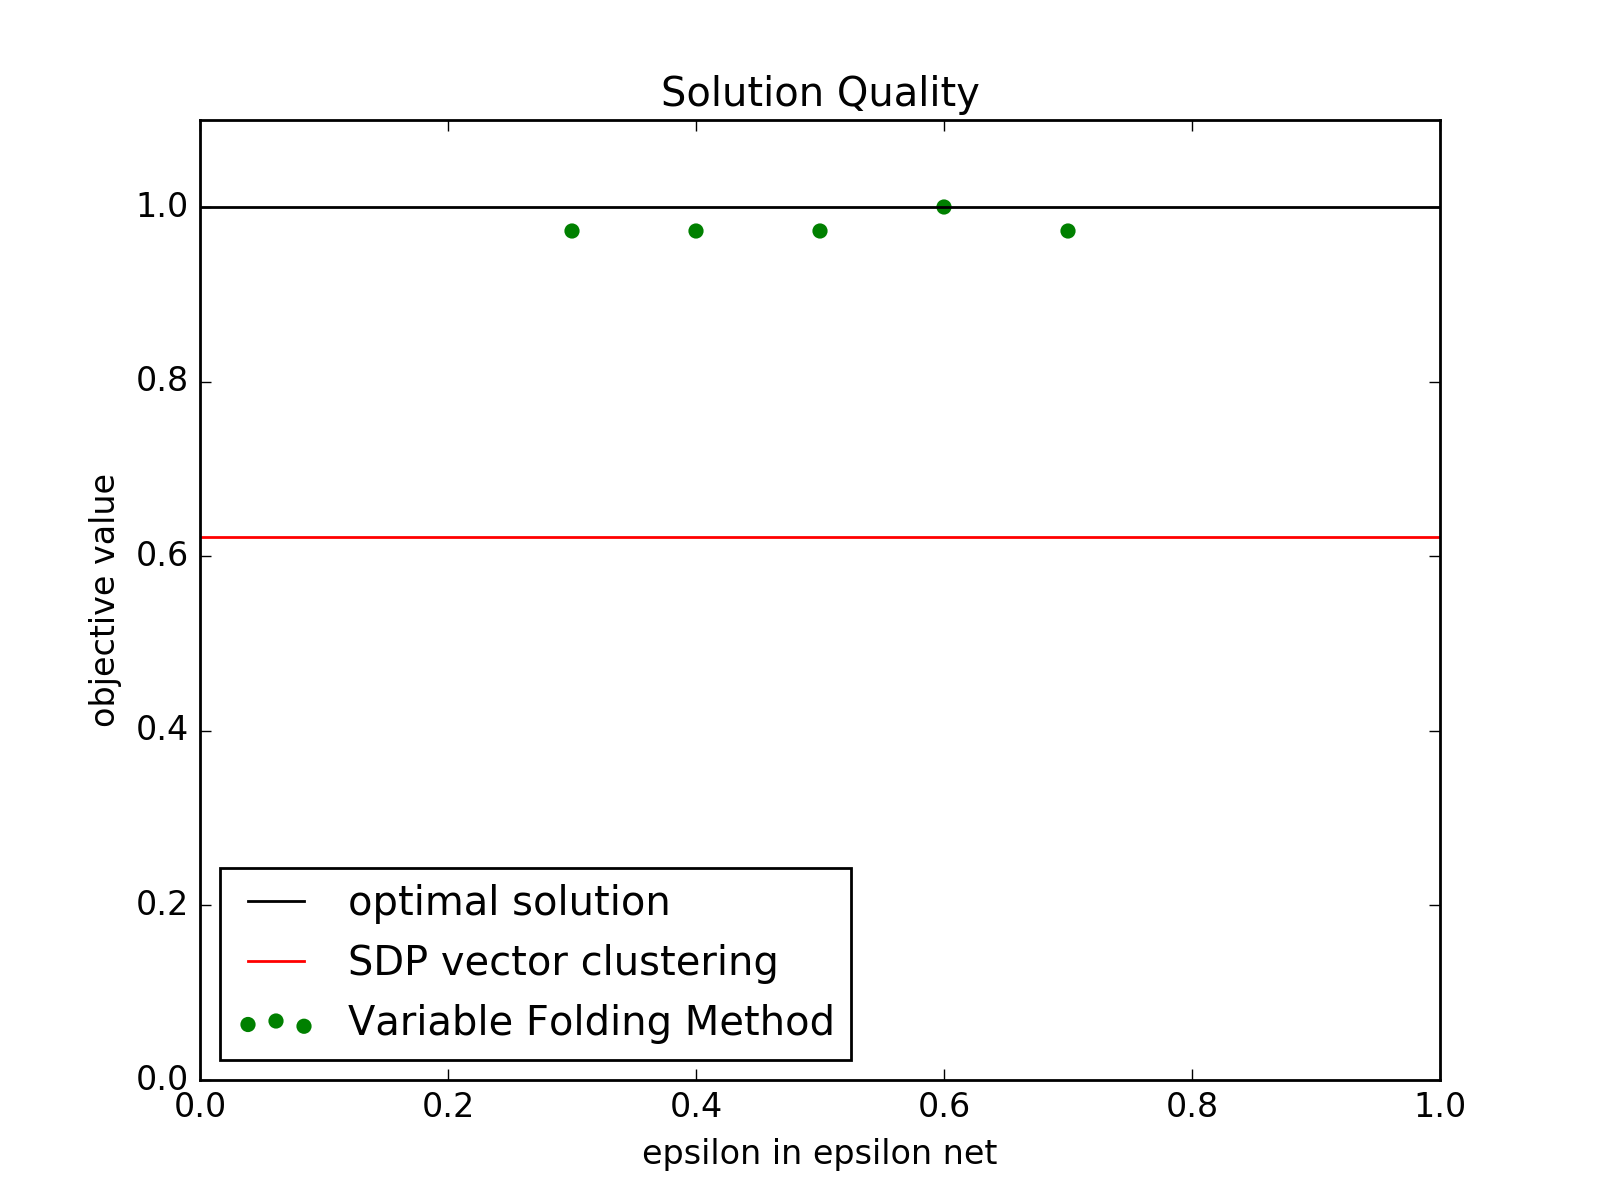
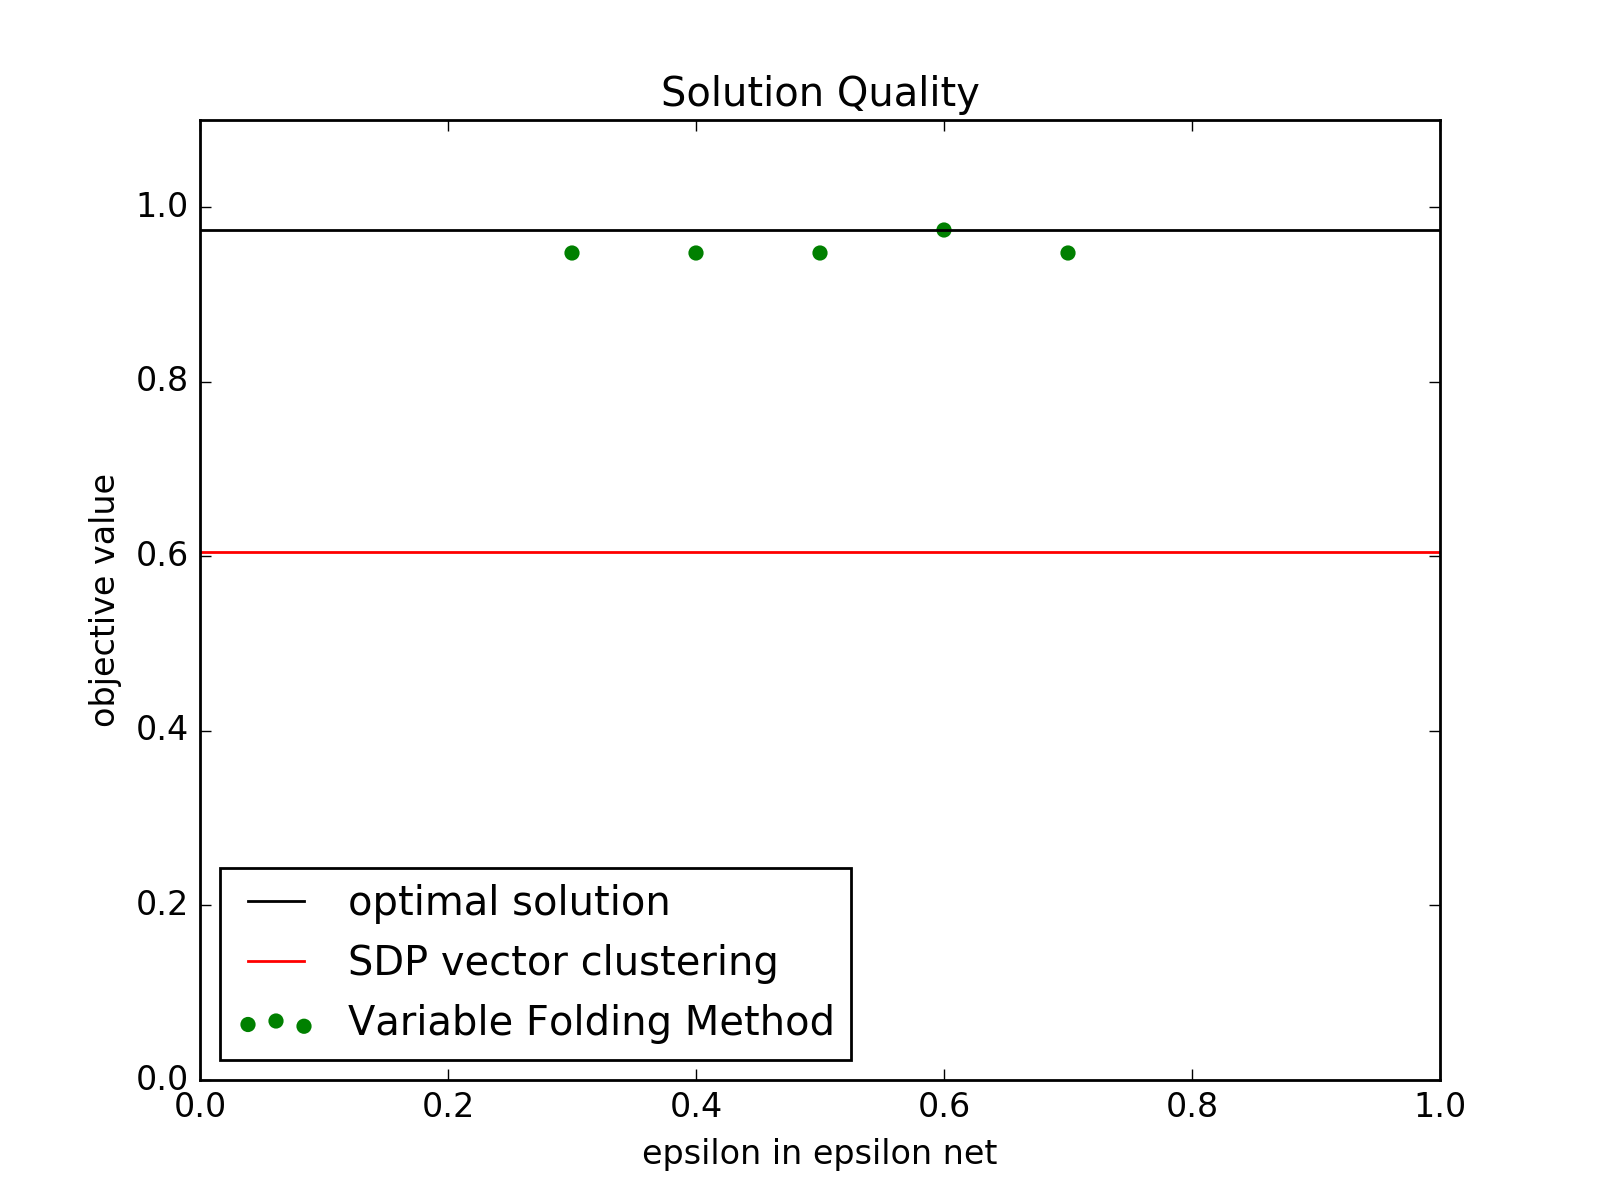
Fixed plots

diff --git a/project/code/Clustering Folding Comparison/plot_generation.py b/project/code/Clustering Folding Comparison/plot_generation.py
@@ -24,9 +24,9 @@ pyplot.xlabel("epsilon in epsilon net")
 pyplot.ylabel("objective value")
 pyplot.xlim([0,1])
 pyplot.ylim([0,1.1])
-pyplot.plot([0,1],[1,1],color='k',label="optimal solution")
-pyplot.plot([0,1],[solution[1]/float(solution[0]),solution[1]/float(solution[0])],color='r',label="SDP vector clustering")
-pyplot.scatter(epsilon[1::],solution[2::]/float(solution[0]),color='g',label="Variable Folding Method")
+pyplot.plot([0,1],[solution[0],solution[0]],color='k',label="optimal solution")
+pyplot.plot([0,1],[solution[1],solution[1]],color='r',label="SDP vector clustering")
+pyplot.scatter(epsilon[1::],solution[2::],color='g',label="Variable Folding Method")
 pyplot.legend(loc='lower left')
 pyplot.savefig("solution_epsilon_2coloring.png",dpi=200,transparent=True)
 
@@ -38,9 +38,9 @@ pyplot.xlabel("epsilon in epsilon net")
 pyplot.ylabel("objective value")
 pyplot.xlim([0,1])
 pyplot.ylim([0,1.1])
-pyplot.plot([0,1],[1,1],color='k',label="optimal solution")
-pyplot.plot([0,1],[solution[1]/float(solution[0]),solution[1]/float(solution[0])],color='r',label="SDP vector clustering")
-pyplot.scatter(epsilon[1::],solution[2::]/float(solution[0]),color='g',label="Variable Folding Method")
+pyplot.plot([0,1],[solution[0],solution[0]],color='k',label="optimal solution")
+pyplot.plot([0,1],[solution[1],solution[1]],color='r',label="SDP vector clustering")
+pyplot.scatter(epsilon[1::],solution[2::],color='g',label="Variable Folding Method")
 pyplot.legend(loc='lower left')
 pyplot.savefig("solution_epsilon_3coloring.png",dpi=200,transparent=True)
 
@@ -52,9 +52,9 @@ pyplot.xlabel("epsilon in epsilon net")
 pyplot.ylabel("objective value")
 pyplot.xlim([0,1])
 pyplot.ylim([0,1.1])
-pyplot.plot([0,1],[1,1],color='k',label="optimal solution")
-pyplot.plot([0,1],[solution[1]/float(solution[0]),solution[1]/float(solution[0])],color='r',label="SDP vector clustering")
-pyplot.scatter(epsilon[1::],solution[2::]/float(solution[0]),color='g',label="Variable Folding Method")
+pyplot.plot([0,1],[solution[0],solution[0]],color='k',label="optimal solution")
+pyplot.plot([0,1],[solution[1],solution[1]],color='r',label="SDP vector clustering")
+pyplot.scatter(epsilon[1::],solution[2::],color='g',label="Variable Folding Method")
 pyplot.legend(loc='lower left')
 pyplot.savefig("solution_epsilon_4coloring.png",dpi=200,transparent=True)
 
@@ -79,10 +79,10 @@ pyplot.title("Solution Quality")
 pyplot.xlabel("epsilon in epsilon net")
 pyplot.ylabel("objective value")
 pyplot.xlim([0,1])
-pyplot.ylim([0,3.5])
-pyplot.plot([0,1],[1,1],color='k',label="optimal solution")
-pyplot.plot([0,1],[solution[1]/float(solution[0]),solution[1]/float(solution[0])],color='r',label="SDP vector clustering")
-pyplot.scatter(epsilon[1::],solution[2::]/float(solution[0]),color='g',label="Variable Folding Method")
+pyplot.ylim([0,1.1])
+pyplot.plot([0,1],[solution[0],solution[0]],color='k',label="optimal solution")
+pyplot.plot([0,1],[solution[1],solution[1]],color='r',label="SDP vector clustering")
+pyplot.scatter(epsilon[1::],solution[2::],color='g',label="Variable Folding Method")
 pyplot.legend(loc='lower left')
 pyplot.savefig("solution_epsilon_n4m2.png",dpi=200,transparent=True)
 
@@ -93,10 +93,10 @@ pyplot.title("Solution Quality")
 pyplot.xlabel("epsilon in epsilon net")
 pyplot.ylabel("objective value")
 pyplot.xlim([0,1])
-pyplot.ylim([0,3.5])
-pyplot.plot([0,1],[1,1],color='k',label="optimal solution")
-pyplot.plot([0,1],[solution[1]/float(solution[0]),solution[1]/float(solution[0])],color='r',label="SDP vector clustering")
-pyplot.scatter(epsilon[1::],solution[2::]/float(solution[0]),color='g',label="Variable Folding Method")
+pyplot.ylim([0,1.1])
+pyplot.plot([0,1],[solution[0],solution[0]],color='k',label="optimal solution")
+pyplot.plot([0,1],[solution[1],solution[1]],color='r',label="SDP vector clustering")
+pyplot.scatter(epsilon[1::],solution[2::],color='g',label="Variable Folding Method")
 pyplot.legend(loc='lower left')
 pyplot.savefig("solution_epsilon_n6m4.png",dpi=200,transparent=True)
 
@@ -107,10 +107,10 @@ pyplot.title("Solution Quality")
 pyplot.xlabel("epsilon in epsilon net")
 pyplot.ylabel("objective value")
 pyplot.xlim([0,1])
-pyplot.ylim([0,3.5])
-pyplot.plot([0,1],[1,1],color='k',label="optimal solution")
-pyplot.plot([0,1],[solution[1]/float(solution[0]),solution[1]/float(solution[0])],color='r',label="SDP vector clustering")
-pyplot.scatter(epsilon[1::],solution[2::]/float(solution[0]),color='g',label="Variable Folding Method")
+pyplot.ylim([0,1.1])
+pyplot.plot([0,1],[solution[0],solution[0]],color='k',label="optimal solution")
+pyplot.plot([0,1],[solution[1],solution[1]],color='r',label="SDP vector clustering")
+pyplot.scatter(epsilon[1::],solution[2::],color='g',label="Variable Folding Method")
 pyplot.legend(loc='lower left')
 pyplot.savefig("solution_epsilon_n8m6.png",dpi=200,transparent=True)
 
@@ -121,10 +121,10 @@ pyplot.title("Solution Quality")
 pyplot.xlabel("epsilon in epsilon net")
 pyplot.ylabel("objective value")
 pyplot.xlim([0,1])
-pyplot.ylim([0,3.5])
-pyplot.plot([0,1],[1,1],color='k',label="optimal solution")
-pyplot.plot([0,1],[solution[1]/float(solution[0]),solution[1]/float(solution[0])],color='r',label="SDP vector clustering")
-pyplot.scatter(epsilon[1::],solution[2::]/float(solution[0]),color='g',label="Variable Folding Method")
+pyplot.ylim([0,1.1])
+pyplot.plot([0,1],[solution[0],solution[0]],color='k',label="optimal solution")
+pyplot.plot([0,1],[solution[1],solution[1]],color='r',label="SDP vector clustering")
+pyplot.scatter(epsilon[1::],solution[2::],color='g',label="Variable Folding Method")
 pyplot.legend(loc='lower left')
 pyplot.savefig("solution_epsilon_n10m8.png",dpi=200,transparent=True)
 
@@ -135,10 +135,10 @@ pyplot.title("Solution Quality")
 pyplot.xlabel("epsilon in epsilon net")
 pyplot.ylabel("objective value")
 pyplot.xlim([0,1])
-pyplot.ylim([0,3.5])
-pyplot.plot([0,1],[1,1],color='k',label="optimal solution")
-pyplot.plot([0,1],[solution[1]/float(solution[0]),solution[1]/float(solution[0])],color='r',label="SDP vector clustering")
-pyplot.scatter(epsilon[1::],solution[2::]/float(solution[0]),color='g',label="Variable Folding Method")
+pyplot.ylim([0,1.1])
+pyplot.plot([0,1],[solution[0],solution[0]],color='k',label="optimal solution")
+pyplot.plot([0,1],[solution[1],solution[1]],color='r',label="SDP vector clustering")
+pyplot.scatter(epsilon[1::],solution[2::],color='g',label="Variable Folding Method")
 pyplot.legend(loc='lower left')
 pyplot.savefig("solution_epsilon_n11m9.png",dpi=200,transparent=True)
 
